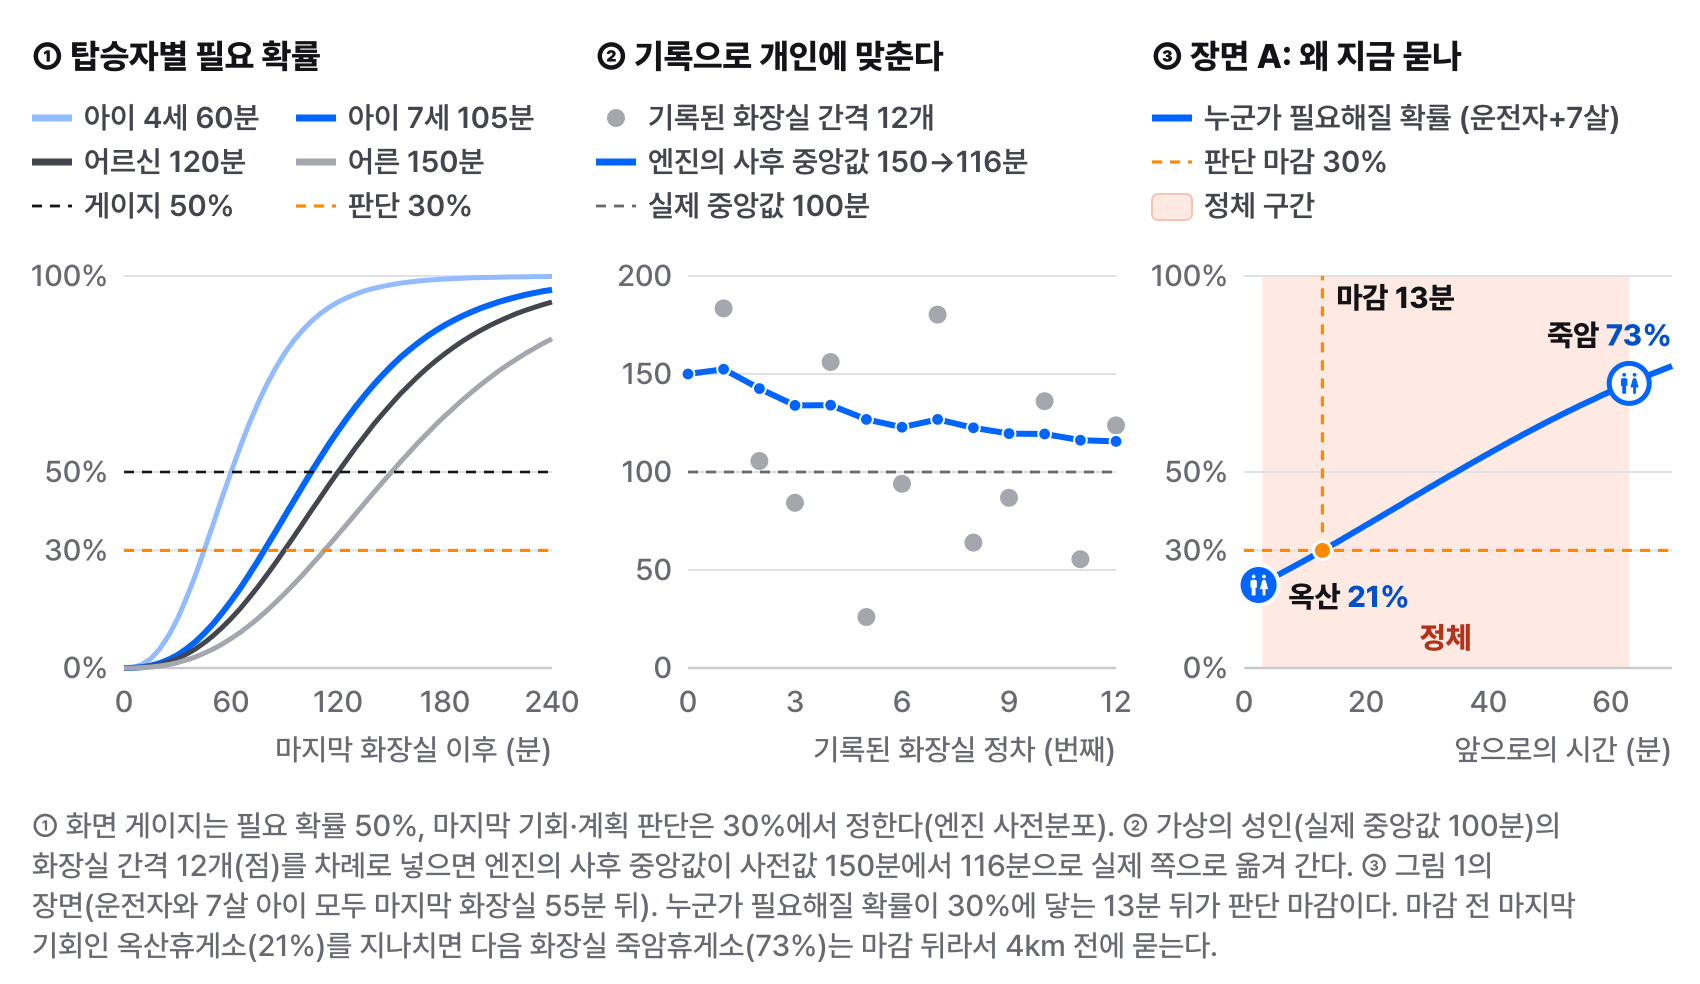
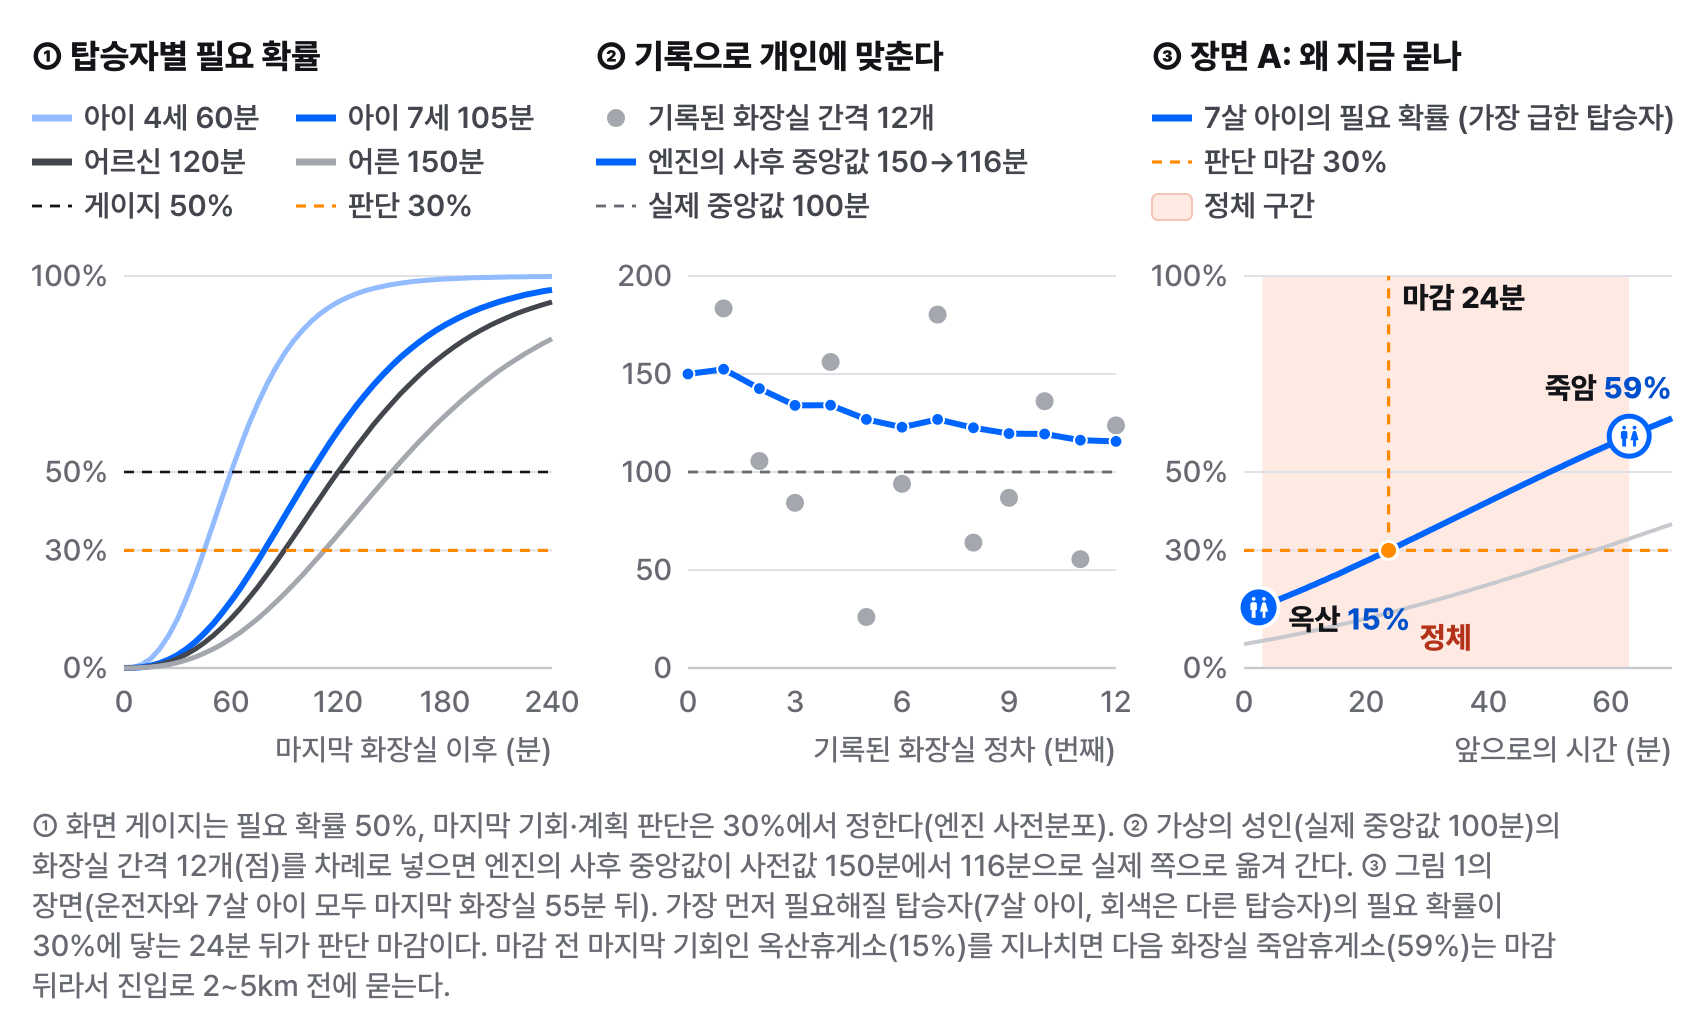
Planning doc: scene A deadline follows the most constrained occupant (engine rule), approach distance 2-5 km

diff --git a/tools/plan/figures.py b/tools/plan/figures.py
@@ -1193,21 +1193,31 @@ def fig_models():
     b.append(L(lx2, 103, lx2 + 20, 103, INK3, 1.4, dash="5 4"))
     b.append(T(lx2 + 26, 108, "실제 중앙값 %d분" % ps["trueMedianMin"], FS, 600, INK2))
 
-    # ③ scene A (그림 1): driver + 7-year-old, both 55 min after the last restroom. The group need probability
-    # P(Δ) = 1 − S_adult(55+Δ)·S_child(55+Δ) is RestroomNeedModel.groupNeedProb; where it reaches the decision
-    # probability is groupDeadlineMin. S = 1 − cdf, interpolated from the engine's own curves.
+    # ③ scene A (그림 1): driver + 7-year-old, both 55 min after the last restroom. The decision deadline is the
+    # most constrained occupant's: where that person's need probability (from the last restroom) reaches the
+    # decision probability (RestroomNeedModel.deadlineMin, 2026-11-11 engine fix: the gauge and the deadline
+    # follow the same person). S = 1 − cdf, interpolated from the engine's own curves.
     elapsed, decision = 55.0, 0.3
     ok_min, jam0, jam1, jk_min = 2.4, 3.0, 63.0, 63.0     # 옥산 2.4 min, congestion 3–63 min, 죽암 63 min
     s_ad, s_ch = nd["series"]["ADULT"]["cdf"], nd["series"]["CHILD_7"]["cdf"]
 
-    def group_p(dl):
-        return 1.0 - (1.0 - _interp(ts, s_ad, elapsed + dl)) * (1.0 - _interp(ts, s_ch, elapsed + dl))
+    def need_p(series, dl):
+        return _interp(ts, series, elapsed + dl)
 
-    lo, hi = 0.0, 70.0
-    for _ in range(50):
-        mid = (lo + hi) / 2
-        lo, hi = (mid, hi) if group_p(mid) < decision else (lo, mid)
-    deadline = lo
+    def deadline_of(series):
+        lo, hi = 0.0, 70.0
+        for _ in range(50):
+            mid = (lo + hi) / 2
+            lo, hi = (mid, hi) if need_p(series, mid) < decision else (lo, mid)
+        return lo
+
+    d_ad, d_ch = deadline_of(s_ad), deadline_of(s_ch)
+    who, curve, other = ("7살 아이", s_ch, s_ad) if d_ch <= d_ad else ("운전자", s_ad, s_ch)
+    deadline = min(d_ad, d_ch)
+
+    def group_p(dl):
+        return need_p(curve, dl)
+
     p_ok, p_jk = group_p(ok_min), group_p(jk_min)
     x3 = xs[2]
     b.append(R(x3 + pw * jam0 / 70.0, top, pw * (jam1 - jam0) / 70.0, ph, 0, RED_TINT))
@@ -1215,6 +1225,7 @@ def fig_models():
                    lambda v: "%d" % v, lambda v: "%d%%" % round(v * 100))
     b.append(T(px((jam0 + jam1) / 2), top + ph - 10, "정체", FS, 800, RED_TEXT, "middle"))
     b.append(L(x3, py(decision), x3 + pw, py(decision), ORANGE, 1.6, dash="5 4"))
+    b.append(_poly([(px(t / 2.0), py(need_p(other, t / 2.0))) for t in range(141)], LINE2, 2))
     b.append(_poly([(px(t / 2.0), py(group_p(t / 2.0))) for t in range(141)], ACCENT, 3))
     # deadline: a pole from the crossing up, labelled at the top (the space below is the 옥산 label's)
     b.append(L(px(deadline), py(decision), px(deadline), top, ORANGE, 1.6, dash="5 4"))
@@ -1227,7 +1238,7 @@ def fig_models():
                 anchor="end"))
     lx3 = xs[2] - 46
     b.append(L(lx3, 59, lx3 + 20, 59, ACCENT, 3.5))
-    b.append(T(lx3 + 26, 64, "누군가 필요해질 확률 (운전자+7살)", FS, 600, INK2))
+    b.append(T(lx3 + 26, 64, "%s의 필요 확률 (가장 급한 탑승자)" % who, FS, 600, INK2))
     b.append(L(lx3, 81, lx3 + 20, 81, ORANGE, 1.6, dash="5 4"))
     b.append(T(lx3 + 26, 86, "판단 마감 %d%%" % round(decision * 100), FS, 600, INK2))
     b.append(R(lx3, 97, 20, 13, 3, RED_TINT, "#F6C3B5", 1))
@@ -1235,10 +1246,10 @@ def fig_models():
 
     foot = ("① 화면 게이지는 필요 확률 50%%, 마지막 기회·계획 판단은 30%%에서 정한다(엔진 사전분포). "
             "② 가상의 성인(실제 중앙값 %d분)의 화장실 간격 %d개(점)를 차례로 넣으면 엔진의 사후 중앙값이 사전값 %d분에서 "
-            "%d분으로 실제 쪽으로 옮겨 간다. ③ 그림 1의 장면(운전자와 7살 아이 모두 마지막 화장실 %d분 뒤). 누군가 "
-            "필요해질 확률이 %d%%에 닿는 %d분 뒤가 판단 마감이다. 마감 전 마지막 기회인 옥산휴게소(%d%%)를 지나치면 다음 "
-            "화장실 죽암휴게소(%d%%)는 마감 뒤라서 4km 전에 묻는다."
-            % (ps["trueMedianMin"], len(obs), round(first), round(last), elapsed, round(decision * 100),
+            "%d분으로 실제 쪽으로 옮겨 간다. ③ 그림 1의 장면(운전자와 7살 아이 모두 마지막 화장실 %d분 뒤). 가장 먼저 "
+            "필요해질 탑승자(%s, 회색은 다른 탑승자)의 필요 확률이 %d%%에 닿는 %d분 뒤가 판단 마감이다. 마감 전 마지막 기회인 옥산휴게소(%d%%)를 지나치면 다음 "
+            "화장실 죽암휴게소(%d%%)는 마감 뒤라서 진입로 2~5km 전에 묻는다."
+            % (ps["trueMedianMin"], len(obs), round(first), round(last), elapsed, who, round(decision * 100),
                round(deadline), round(p_ok * 100), round(p_jk * 100)))
     b.append(ML(16, top + ph + 84, wrap(foot, FS, W - 32), FS, 20, 500, INK3))
     lines = len(wrap(foot, FS, W - 32))

diff --git a/tools/plan/content.py b/tools/plan/content.py
@@ -293,7 +293,7 @@ S3 = Section(3, "vehicle_scenario", "앱 주요 기능 및 차량 특화 요소"
     Table(["기능", "사용자에게", "차량이라서 가능한 이유 · 신호와 API"], [
         ["핵심 · 정체 앞 마지막 기회",
          "정체·터널·드문 구간이 만드는 화장실 공백이 탑승자의 남은 시간보다 길면, 공백 앞 마지막 휴게소를 2~5km 전에 "
-         "묻는다. ‘응’ 하면 경유지가 된다. 판단은 ‘누군가 필요해질 확률 30%’ 마감과 기회별 도착 시간으로 한다"
+         "묻는다. ‘응’ 하면 경유지가 된다. 판단은 ‘가장 먼저 필요해질 탑승자의 필요 확률 30%’ 마감과 기회별 도착 시간으로 한다"
          "(그림 8-③).",
          "경로 위 휴게소·졸음쉼터는 회전 안내(`getTBTInfo`), 정체는 경로 상태(`getRouteStateInfo`)에서 읽고, 수락하면 "
          "`addWaypoint`. 휴대폰 앱은 다른 내비의 경로·정체를 읽을 수 없다"],
@@ -467,7 +467,7 @@ S5 = Section(5, "pleos_plan", "개발 계획", [
         ["① 화장실 필요 모델",
          "탑승자별 ‘마지막 화장실 이후 시간’에 와이블 생존모형(형상 k=2.5), 척도에 켤레 사전분포(가상 관측 3회)를 두고 "
          "정차 기록으로 닫힌 식 베이즈 갱신. 권해서 들른 정차는 절반 무게, 다른 사람 때문에 선 정차는 중도절단. "
-         "게이지는 필요 확률 50%까지 남은 분, 판단은 ‘누군가 필요해질 확률 30%’ 마감",
+         "게이지는 필요 확률 50%까지 남은 분, 판단은 ‘가장 먼저 필요해질 탑승자의 필요 확률 30%’ 마감(게이지와 같은 사람 기준)",
          "사전 중앙값(설계값): 어른 150분, 65세 이상 120분, 과민성 방광 90분, 3~5세 60분, 6~9세 105분. 배뇨 불편 없는 "
          "성인 주간 간격 약 2.2~2.9시간(1,152명 배뇨일지)"],
         ["② 운전 스타일 편차",
